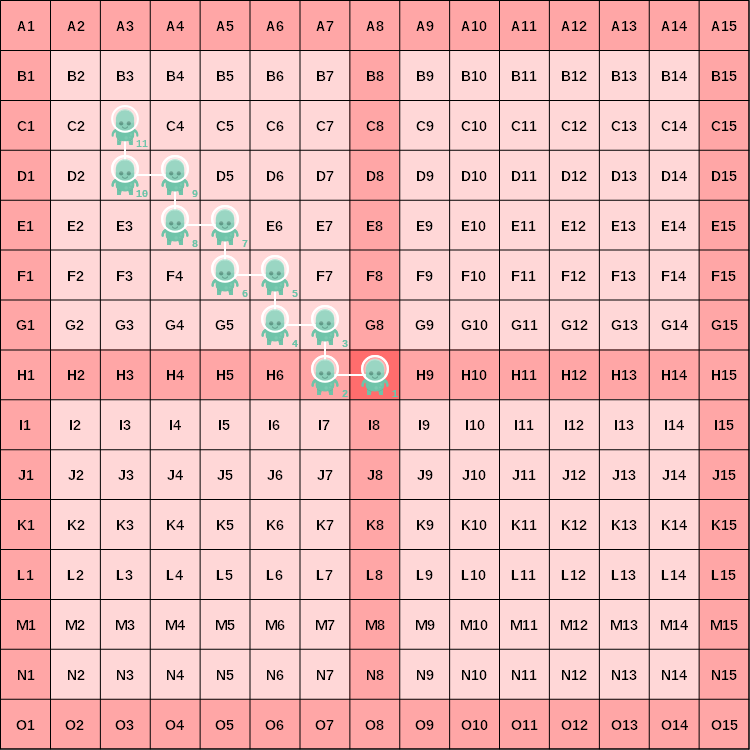
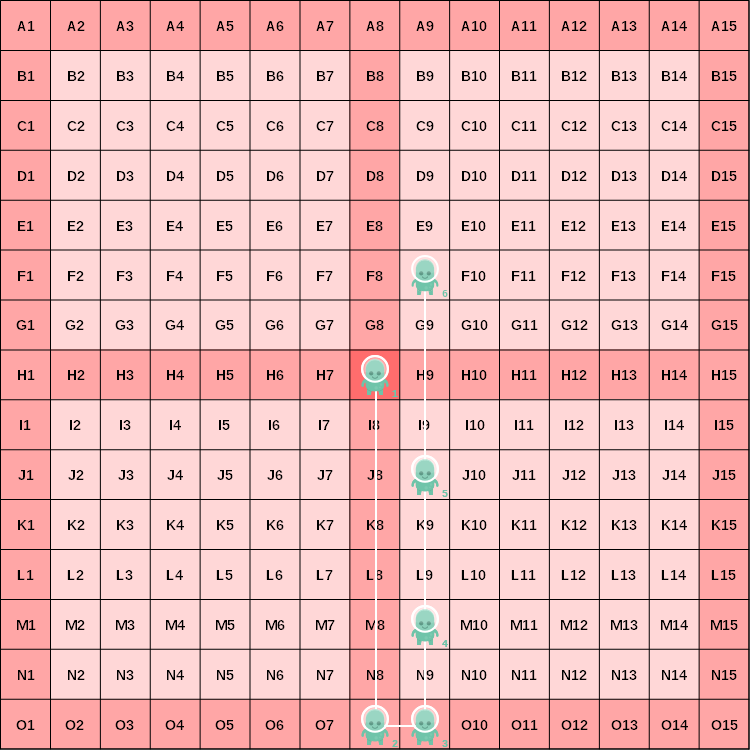
fix 17 and 3

diff --git a/exercices/17.py b/exercices/17.py
@@ -1,7 +1,10 @@
 from libs.alien import *
 
-for loop in range(5) :
-    gauche()
-    haut()
+a = 1
+bas(7)
+droite()
+for loop in range(3) :
+    a = a + 1
+    haut(a)
 
 ss()
